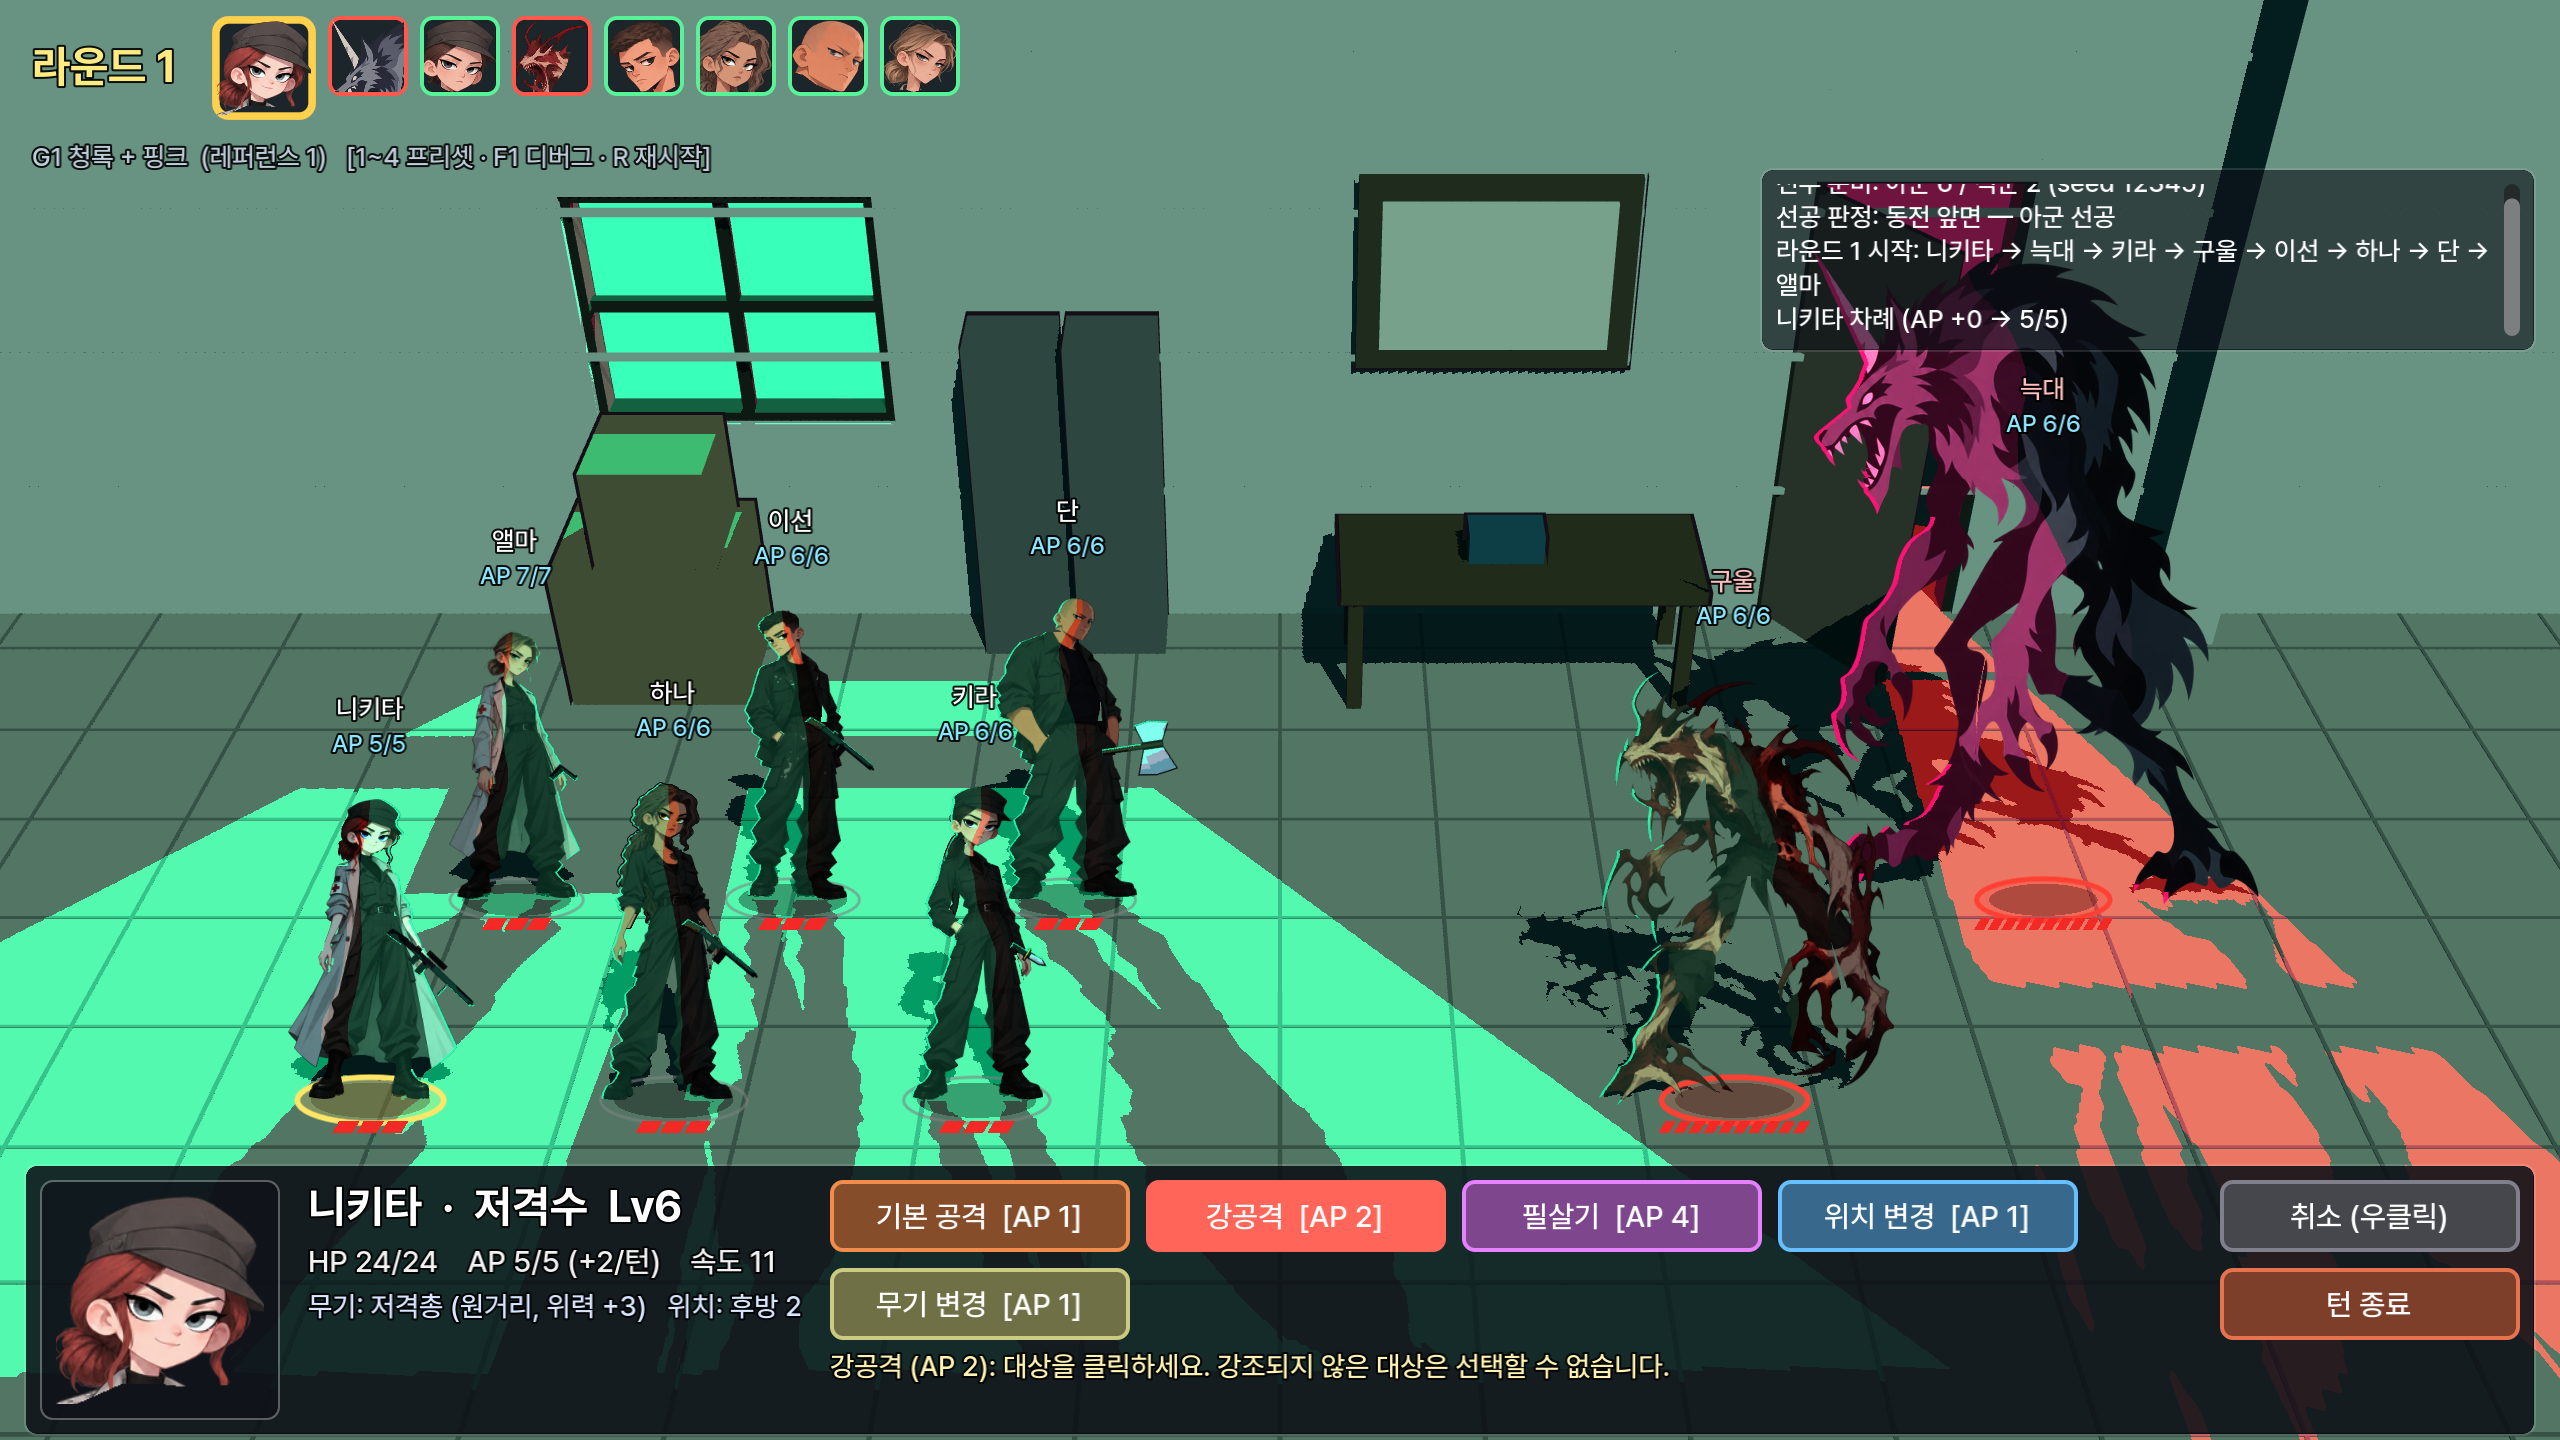
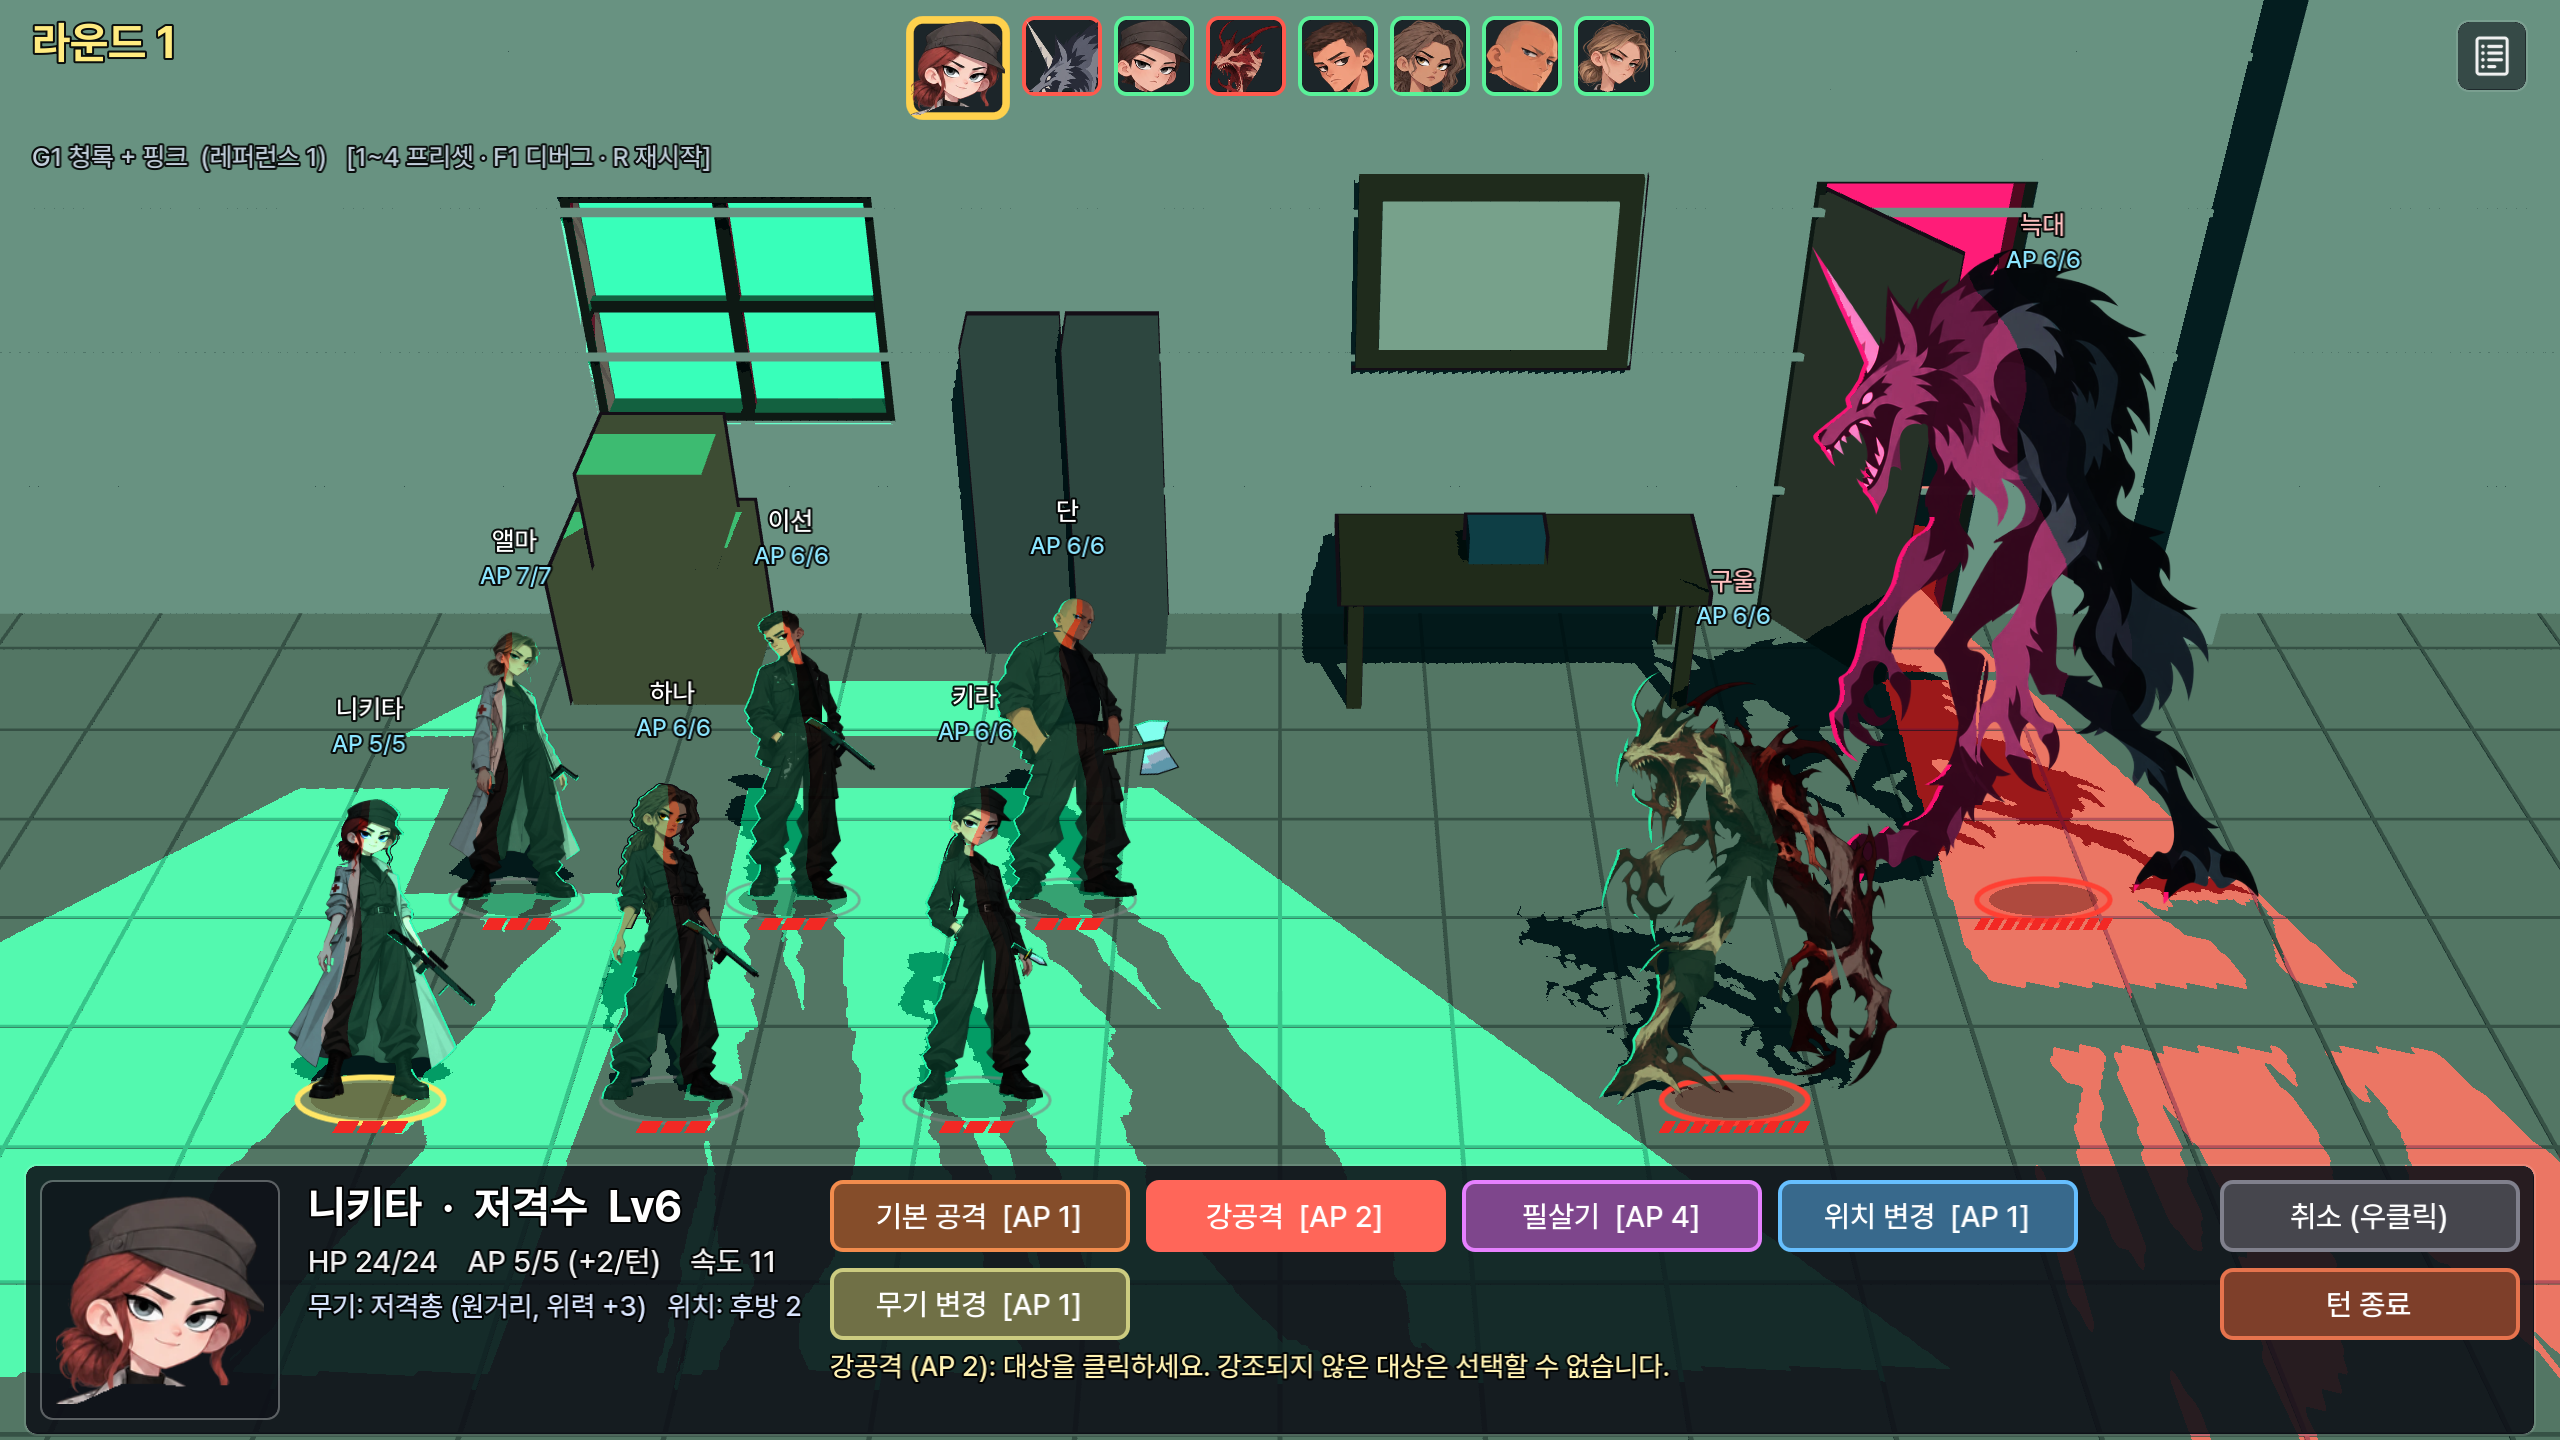
동전 착지 후 선공 글자, 행동 순서 상단 중앙, 전투 기록 2단(아이콘/창)
- 동전 연출: 착지 후 동전 아래에 "아군 선공"/"적 선공" 을 잠깐 띄움
- 행동 순서 초상화를 화면 상단 중앙에 배치
- 전투 기록: 1단 = 우측 상단 아이콘만, 2단 = 아이콘 아래 기존 크기 기록 창.
  아이콘 클릭 또는 L 로 전환 (tools 없이 assets/textures/ui_log.png 아이콘)

Claude-Session: https://claude.ai/code/session_014aytw3hj7boqn3SZ5GP5ti

diff --git a/docs/design/00_decision_log_v1_0.md b/docs/design/00_decision_log_v1_0.md
@@ -14,10 +14,11 @@
 
 ## 추가 확정 (2026-10-25, 프로토타입 검토 중 사용자 결정)
 - 그래픽 표현은 **2D** 로 확정 (2D/3D 비교: `docs/2D_vs_3D_comparison.md`). 캐릭터 3D 전환 기능(Tab·메뉴 표현 모드)은 제거 (2026-10-26).
-- 전투 HUD (2026-10-26): 상단 바 검은 배경 제거, **행동 순서는 초상화**로(호버 시 이름, "행동 순서" 글자 없음), **차례 유닛 초상화 30% 확대**.
+- 전투 HUD (2026-10-26): 상단 바 검은 배경 제거, **행동 순서는 상단 중앙의 초상화**(호버 시 이름, "행동 순서" 글자 없음), **차례 유닛 초상화 30% 확대**.
+  **전투 기록은 2단**: 1단 = 우측 상단 아이콘만(글자 없음), 2단 = 아이콘 아래 기록 창(기존 크기). 아이콘 클릭 또는 L.
   동전 결과 글자는 HUD 에 표시하지 않음. 글꼴은 **Pretendard** (Regular/Medium/Bold, OFL).
 - 선공 동전 연출 (2026-10-26): 일반 전투 시작 시 화면 아래에서 3D 금화가 튀어 올라 오른쪽으로 돌다 떨어짐.
-  **앞면 = 고양이 새김 = 아군 선공, 뒷면 = 아무것도 없는 매끈한 면 = 적 선공.** 연출이 끝난 뒤 첫 라운드 시작 (기습·매복은 동전 없음).
+  **앞면 = 고양이 새김 = 아군 선공, 뒷면 = 아무것도 없는 매끈한 면 = 적 선공.** 착지 후 "아군 선공"/"적 선공" 글자를 잠깐 띄움. 연출이 끝난 뒤 첫 라운드 시작 (기습·매복은 동전 없음).
 - 전투 카메라: 정면이 아니라 **뒤로 물러나 내려다보는 구도**. **피치 40° 유지**, 구도를 위로 옮겨 바닥이 덜 보이게(화면 중심 y 430→480), 전투 내내 **전체 구도 고정** — 차례 캐릭터 줌인·추적은 적을 선택할 수 없게 가려서 제거 (2026-10-25).
 - 캐릭터: **실루엣 외곽선은 분명하되 얇게** (현재 0.45px, 2026-10-25 0.7→0.45), 조명 색은 반투명하게 덮지 않고 **쨍하게** 입힘 (`shaders/cel_character.gdshader`).
 - 캐릭터 **림 라인(그림자 쪽 가장자리의 반대 조명색 선) 사용** 확정. 전투 중 F3 토글은 비교·디버그용으로만 유지.

diff --git a/README.md b/README.md
@@ -44,8 +44,10 @@ git 이 없는 설치(zip)는 같은 설치 명령을 다시 실행하면 최신
 2. 메뉴에서 조명 프리셋(G1~G4), 선공(동전/아군 기습/적 매복), 시드를 고른 뒤 편성 → 전투.
 3. 화면: 창은 **QHD(2560×1440 픽셀)** 로 고정해 그 해상도로 렌더합니다(모니터가 작으면 16:9 로 맞춰 줄임). `F11` 전체 화면.
 4. 전투 시작: 일반 전투(동전)는 화면 아래에서 금화가 튀어 올라 오른쪽으로 돌며 떨어집니다 — **고양이 면(앞면) = 아군 선공, 매끈한 면(뒷면) = 적 선공**.
-   상단에는 행동 순서가 초상화로 나오고(마우스를 올리면 이름), 차례인 캐릭터의 초상화가 30% 커집니다. 글꼴은 Pretendard.
-5. 전투 중 단축키: `1~4` 조명 프리셋 즉시 교체 · `F1` 디버그 패널 · `F2` HUD 숨김 · `F3` 캐릭터 림 라인 켜기/끄기 · `R` 재시작 · `Space` 턴 종료 · 우클릭 취소.
+   착지 후 "아군 선공"/"적 선공" 글자가 잠깐 뜹니다.
+   상단 중앙에 행동 순서가 초상화로 나오고(마우스를 올리면 이름), 차례인 캐릭터의 초상화가 30% 커집니다.
+   전투 기록은 우측 상단 아이콘만 보이다가 아이콘 클릭(또는 `L`)으로 기록 창을 펼칩니다. 글꼴은 Pretendard.
+5. 전투 중 단축키: `1~4` 조명 프리셋 즉시 교체 · `L` 전투 기록 펼치기 · `F1` 디버그 패널 · `F2` HUD 숨김 · `F3` 캐릭터 림 라인 켜기/끄기 · `R` 재시작 · `Space` 턴 종료 · 우클릭 취소.
 
 렌더러는 `gl_compatibility` 로 두었습니다(저사양/소프트웨어 렌더 검증 포함). Forward+ 로 바꿔도 셰이더는 그대로 동작합니다.
 
